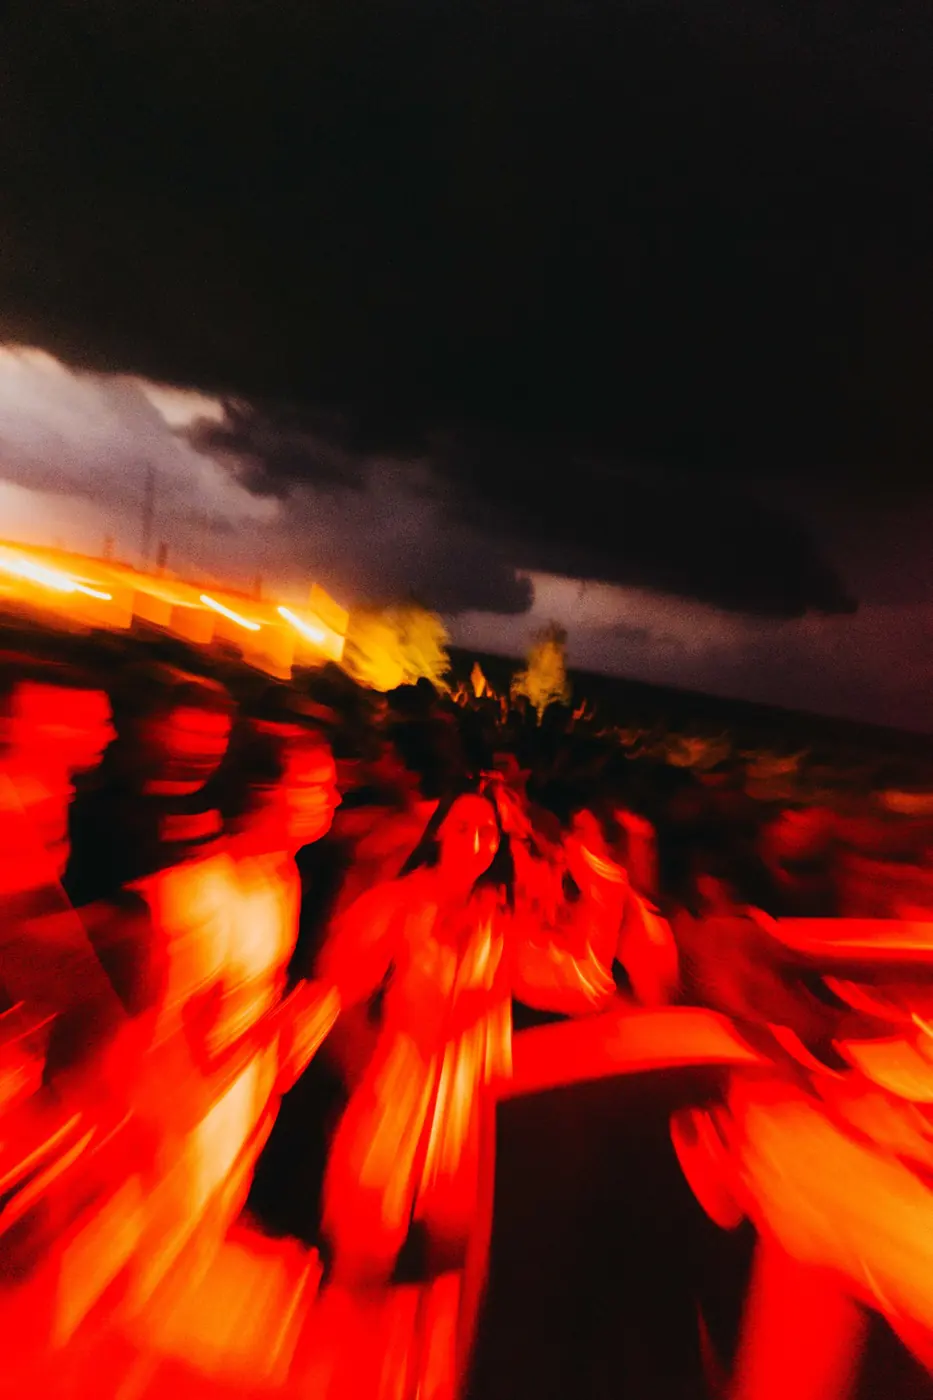
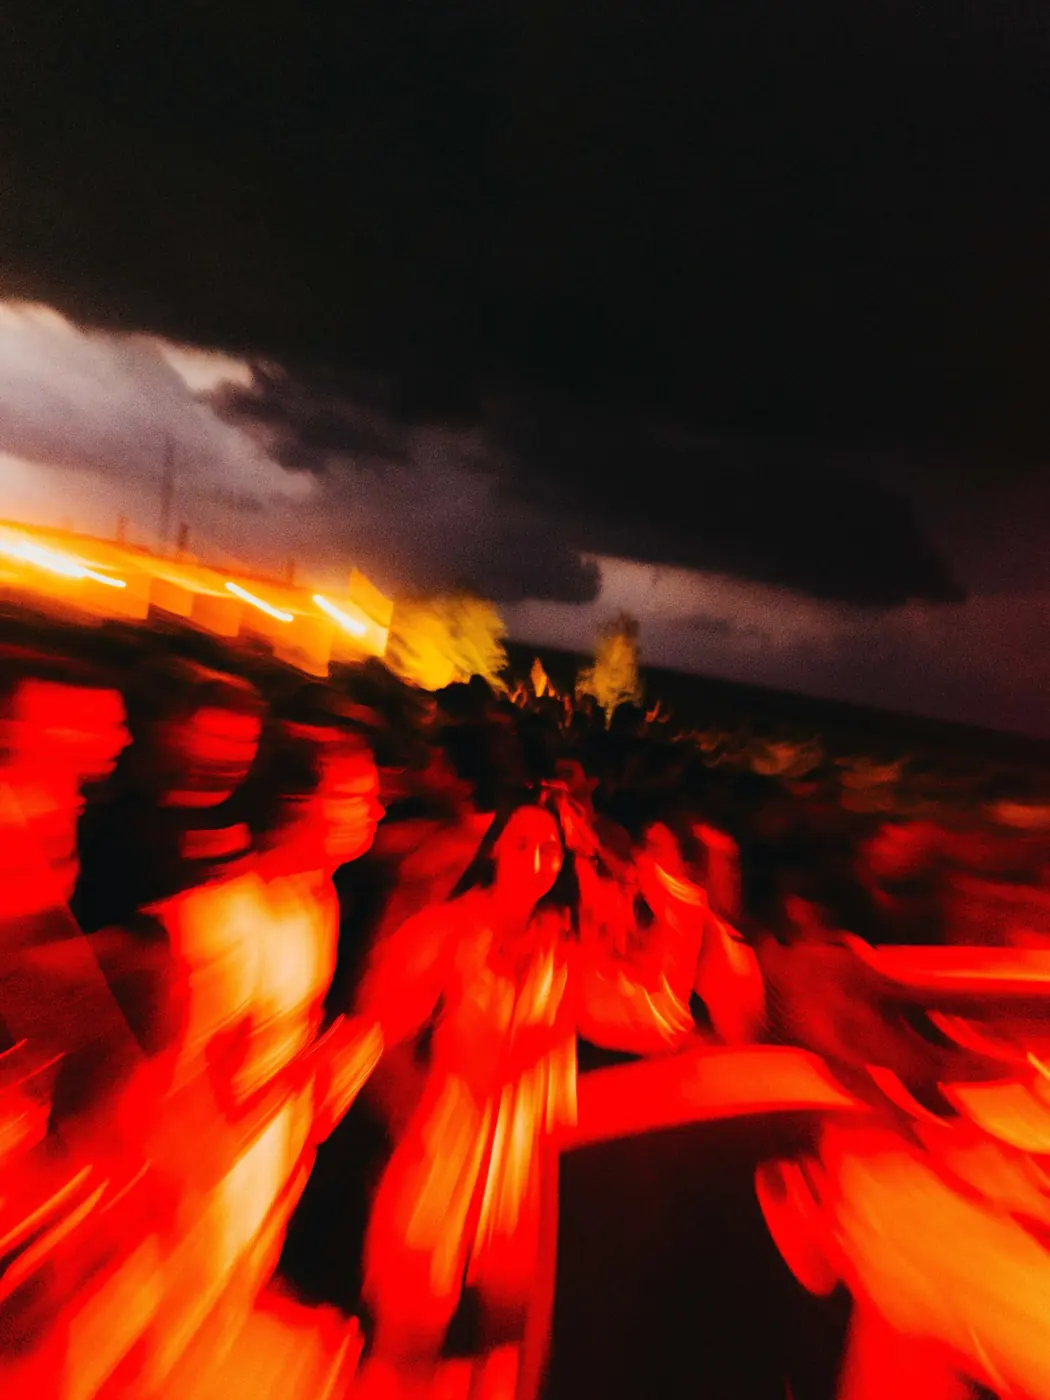
Sito 2027: nuovi sponsor, hero con beach volley, griglia aggiornata
- sponsor: Ghiaccino, Kronenbourg 1664, Cantina Crespaia; Lonely Tabi tra gli artisti
- hero: foto beach volley al posto del drone, slideshow attivo anche su mobile
- griglia: 25 foto, bagnanti in alto, yoga AI, kite in salto; su mobile 8 caselle
- sfondo sezione testo #EE8C53, footer con JIM Factory

Claude-Session: https://claude.ai/code/session_014ExUtK4sMAUc86pv9befrM

diff --git a/surfin-jim-final/index.html b/surfin-jim-final/index.html
@@ -47,10 +47,10 @@ a{color:inherit;text-decoration:none}ul{list-style:none}img{display:block;max-wi
 .js .cell.sw img{visibility:hidden}.js .cell.sw img.on{visibility:visible}
 @media(max-width:700px){.grid{grid-template-columns:repeat(2,1fr)}.cell.x{display:none}}
 /* testo */
-.wrap{background:#F5A500;position:relative;overflow:hidden}
+.wrap{background:#EE8C53;position:relative;overflow:hidden}
 .sec{max-width:1000px;margin:0 auto;padding:64px 32px 40px;position:relative;z-index:2}
 h2.big{text-wrap:balance;font-size:clamp(30px,5.4vw,70px);line-height:.98;letter-spacing:-.02em;text-transform:uppercase;text-align:center;margin-bottom:22px}
-h2.big em{font-style:normal;color:var(--red);display:inline-block}
+h2.big em{font-style:normal;color:var(--sand);display:inline-block}
 .lead{text-wrap:pretty;max-width:860px;margin:0 auto;text-align:center;font-size:clamp(19px,2.3vw,29px);line-height:1.38}
 .cta{max-width:1000px;margin:32px auto 0;background:var(--night);color:var(--sand);padding:22px 28px;display:flex;align-items:center;justify-content:space-between;gap:24px}
 .cta h3{font-size:clamp(22px,3vw,34px);line-height:1;text-transform:uppercase}.cta h3 em{font-style:normal;color:var(--yellow)}
@@ -75,16 +75,16 @@ footer{background:var(--night);padding:44px 32px 28px;border-top:1px solid rgba(
 <img class="slide on" src="images/hero-dj.webp" alt="Due dj di notte sotto l'insegna Surfin' Jim, con il pubblico davanti" style="--dp:50% 35%;--mp:48% 55%" fetchpriority="high">
 <img class="slide" src="images/hero-2-kite.webp" alt="Kitesurf davanti alla costa di Pesaro" style="--dp:50% 78%;--mp:60% 50%">
 <img class="slide" src="images/hero-3-mare.webp" alt="Persone che corrono in mare" style="--dp:50% 55%;--mp:40% 50%">
-<img class="slide" src="images/hero-4-drone.webp" alt="Veduta dall'alto del festival sulla spiaggia di notte" style="--dp:50% 28%;--mp:50% 50%">
+<img class="slide" src="images/hero-4-volley.webp" alt="Partita a palla in spiaggia con i kite nel cielo" style="--dp:50% 50%;--mp:47% 50%">
 <h1 class="hero-title">surfin' jim</h1>
 <div class="dots" aria-hidden="true"><i class="on"></i><i></i><i></i><i></i></div>
 </header>
 
-<section class="mq" id="artisti" aria-label="Artisti 2026"><div class="mq-track"><ul><li class="lb">Artisti 2026</li><li>Eternal Love</li><li>James Falco</li><li>Jim Nights</li><li>Reptilia</li><li>MilleAlice</li><li>Mazzoli</li><li>Conservatorio Rossini Jazz Quartet</li><li>Danielle</li></ul></div></section>
+<section class="mq" id="artisti" aria-label="Artisti 2026"><div class="mq-track"><ul><li class="lb">Artisti 2026</li><li>Eternal Love</li><li>James Falco</li><li>Jim Nights</li><li>Reptilia</li><li>MilleAlice</li><li>Mazzoli</li><li>Conservatorio Rossini Jazz Quartet</li><li>Danielle</li><li>Lonely Tabi</li></ul></div></section>
 
-<section class="grid" id="foto" aria-label="Foto dell'edizione 2026"><div class="cell sw"><img class="on" src="images/edizione-2026/yoga.webp" width="933" height="1400" alt="Yoga in spiaggia" style="--p:50% 60%" loading="lazy"><img src="images/edizione-2026/vela-uomo.webp" width="933" height="1400" alt="Uomo in acqua accanto a una piccola barca a vela" style="--p:50% 55%" loading="lazy"></div><div class="cell sw"><img class="on" src="images/edizione-2026/pubblico-notte.webp" width="933" height="1400" alt="Pubblico sotto le luci di notte" style="--p:50% 65%" loading="lazy"><img src="images/edizione-2026/dj-mosso.webp" width="933" height="1400" alt="Dj al lavoro in luce rossa" style="--p:50% 50%" loading="lazy"></div><div class="cell sw"><img class="on" src="images/edizione-2026/kite-onda.webp" width="788" height="1400" alt="Kitesurf con gli aquiloni in cielo" style="--p:50% 55%" loading="lazy"><img src="images/edizione-2026/canoa.webp" width="933" height="1400" alt="Canoa" style="--p:50% 60%" loading="lazy"></div><div class="cell"><img class="on" src="images/edizione-2026/live-chitarra.webp" width="933" height="1400" alt="Live con chitarra" style="--p:50% 40%" loading="lazy"></div><div class="cell sw"><img class="on" src="images/edizione-2026/dj-luce-rossa.webp" width="1800" height="1199" alt="Dj set in luce rossa" style="--p:52% 55%" loading="lazy"><img src="images/edizione-2026/pubblico-mosso.webp" width="933" height="1400" alt="Pubblico che balla, foto in movimento" style="--p:50% 55%" loading="lazy"></div><div class="cell sw"><img class="on" src="images/edizione-2026/talk.webp" width="933" height="1400" alt="Talk in spiaggia sotto l'insegna Surfin' Jim" style="--p:50% 55%" loading="lazy"><img src="images/edizione-2026/tshirt.webp" width="933" height="1400" alt="T-shirt Surfin' Jim" style="--p:50% 40%" loading="lazy"></div><div class="cell"><img class="on" src="images/edizione-2026/extra-198.webp" width="1200" height="1800" alt="Live di notte sotto l'insegna Surfin' Jim" style="--p:50% 50%" loading="lazy"></div><div class="cell sw"><img class="on" src="images/edizione-2026/corsa-gruppo.webp" width="933" height="1400" alt="Corsa di gruppo" style="--p:50% 60%" loading="lazy"><img src="images/edizione-2026/sup.webp" width="934" height="1400" alt="SUP" style="--p:50% 60%" loading="lazy"></div><div class="cell sw"><img class="on" src="images/edizione-2026/extra-100.webp" width="1200" height="1800" alt="Insegna Surfin' Jim al tramonto" style="--p:50% 60%" loading="lazy"><img src="images/edizione-2026/talk-sundek.webp" width="1800" height="1200" alt="Talk in spiaggia con gli ospiti seduti sul palco" style="--p:45% 50%" loading="lazy"></div><div class="cell sw"><img class="on" src="images/edizione-2026/dj-banco.webp" width="933" height="1400" alt="Consolle e pubblico in movimento" style="--p:50% 60%" loading="lazy"><img src="images/edizione-2026/pubblico-telefono.webp" width="933" height="1400" alt="Ragazza che filma il concerto con il telefono" style="--p:50% 45%" loading="lazy"></div><div class="cell"><img class="on" src="images/edizione-2026/bagnanti.webp" width="933" height="1400" alt="Amiche in mare" style="--p:50% 55%" loading="lazy"></div><div class="cell"><img class="on" src="images/edizione-2026/dj-palco.webp" width="1800" height="1200" alt="I dj dal palco con il pubblico davanti" style="--p:50% 55%" loading="lazy"></div><div class="cell x"><img class="on" src="images/edizione-2026/dj-schiena.webp" width="933" height="1400" alt="Dj di spalle e pubblico di notte" style="--p:50% 60%" loading="lazy"></div><div class="cell x"><img class="on" src="images/edizione-2026/vela.webp" width="933" height="1400" alt="Preparazione della vela in spiaggia" style="--p:50% 50%" loading="lazy"></div><div class="cell x"><img class="on" src="images/edizione-2026/live-band.webp" width="933" height="1400" alt="Band sul palco in luce rossa" style="--p:50% 55%" loading="lazy"></div><div class="cell x"><img class="on" src="images/edizione-2026/talk-panel.webp" width="933" height="1400" alt="Talk in spiaggia sotto l'insegna Surfin' Jim" style="--p:50% 40%" loading="lazy"></div></section>
+<section class="grid" id="foto" aria-label="Foto dell'edizione 2026"><div class="cell"><img class="on" src="images/edizione-2026/bagnanti.webp" width="933" height="1400" alt="Amiche in mare" style="--p:50% 55%" loading="lazy"></div><div class="cell sw"><img class="on" src="images/edizione-2026/pubblico-notte.webp" width="933" height="1400" alt="Pubblico sotto le luci di notte" style="--p:50% 65%" loading="lazy"><img src="images/edizione-2026/dj-mosso.webp" width="933" height="1400" alt="Dj al lavoro in luce rossa" style="--p:50% 50%" loading="lazy"></div><div class="cell sw"><img class="on" src="images/edizione-2026/kite-onda.webp" width="788" height="1400" alt="Kitesurf con gli aquiloni in cielo" style="--p:50% 55%" loading="lazy"><img src="images/edizione-2026/kite-jump.webp" width="933" height="1400" alt="Kitesurf in salto sopra le onde" style="--p:50% 45%" loading="lazy"></div><div class="cell"><img class="on" src="images/edizione-2026/dj-palco.webp" width="1800" height="1200" alt="I dj dal palco con il pubblico davanti" style="--p:50% 55%" loading="lazy"></div><div class="cell sw"><img class="on" src="images/edizione-2026/live-chitarra.webp" width="933" height="1400" alt="Live con chitarra" style="--p:50% 40%" loading="lazy"><img src="images/edizione-2026/pubblico-mosso.webp" width="1050" height="1400" alt="Pubblico che balla, foto in movimento" style="--p:50% 55%" loading="lazy"></div><div class="cell sw"><img class="on" src="images/edizione-2026/yoga.webp" width="933" height="1400" alt="Yoga in spiaggia" style="--p:50% 55%" loading="lazy"><img src="images/edizione-2026/vela-uomo.webp" width="933" height="1400" alt="Uomo in acqua accanto a una piccola barca a vela" style="--p:50% 55%" loading="lazy"></div><div class="cell"><img class="on" src="images/edizione-2026/extra-198.webp" width="1200" height="1800" alt="Live di notte sotto l'insegna Surfin' Jim" style="--p:50% 50%" loading="lazy"></div><div class="cell sw"><img class="on" src="images/edizione-2026/talk.webp" width="933" height="1400" alt="Talk in spiaggia sotto l'insegna Surfin' Jim" style="--p:50% 55%" loading="lazy"><img src="images/edizione-2026/tshirt.webp" width="933" height="1400" alt="T-shirt Surfin' Jim" style="--p:50% 40%" loading="lazy"></div><div class="cell sw x"><img class="on" src="images/edizione-2026/corsa-gruppo.webp" width="933" height="1400" alt="Corsa di gruppo" style="--p:50% 60%" loading="lazy"><img src="images/edizione-2026/sup.webp" width="934" height="1400" alt="SUP" style="--p:50% 60%" loading="lazy"></div><div class="cell sw x"><img class="on" src="images/edizione-2026/dj-banco.webp" width="933" height="1400" alt="Consolle e pubblico in movimento" style="--p:50% 60%" loading="lazy"><img src="images/edizione-2026/pubblico-telefono.webp" width="933" height="1400" alt="Ragazza che filma il concerto con il telefono" style="--p:50% 45%" loading="lazy"></div><div class="cell sw x"><img class="on" src="images/edizione-2026/canoa.webp" width="933" height="1400" alt="Canoa" style="--p:50% 60%" loading="lazy"><img src="images/edizione-2026/extra-100.webp" width="1200" height="1800" alt="Insegna Surfin' Jim al tramonto" style="--p:50% 60%" loading="lazy"></div><div class="cell x"><img class="on" src="images/edizione-2026/dj-schiena.webp" width="933" height="1400" alt="Dj di spalle e pubblico di notte" style="--p:50% 60%" loading="lazy"></div><div class="cell x"><img class="on" src="images/edizione-2026/live-band.webp" width="933" height="1400" alt="Band sul palco in luce rossa" style="--p:50% 55%" loading="lazy"></div><div class="cell sw x"><img class="on" src="images/edizione-2026/talk-sundek.webp" width="1800" height="1200" alt="Talk in spiaggia con gli ospiti seduti sul palco" style="--p:45% 50%" loading="lazy"><img src="images/edizione-2026/vela.webp" width="933" height="1400" alt="Preparazione della vela in spiaggia" style="--p:50% 50%" loading="lazy"></div><div class="cell x"><img class="on" src="images/edizione-2026/dj-luce-rossa.webp" width="1800" height="1199" alt="Dj set in luce rossa" style="--p:52% 55%" loading="lazy"></div><div class="cell x"><img class="on" src="images/edizione-2026/talk-panel.webp" width="933" height="1400" alt="Talk in spiaggia sotto l'insegna Surfin' Jim" style="--p:50% 40%" loading="lazy"></div></section>
 
-<section class="mq" id="partner" aria-label="Partner 2026"><div class="mq-track"><ul><li class="lb">Partner 2026</li><li>Sundek</li><li>Aperol</li><li>Mixum</li><li>Gabellini Changan</li><li>Cinquantotto Pesaro</li><li>Casa Fazi Pokè</li><li>Pepitos</li><li>Sprout</li><li>Ri.Cami</li></ul></div></section>
+<section class="mq" id="partner" aria-label="Partner 2026"><div class="mq-track"><ul><li class="lb">Partner 2026</li><li>Sundek</li><li>Aperol</li><li>Mixum</li><li>Gabellini Changan</li><li>Cinquantotto Pesaro</li><li>Ghiaccino</li><li>Kronenbourg 1664</li><li>Cantina Crespaia</li><li>Casa Fazi Pokè</li><li>Pepitos</li><li>Sprout</li><li>Ri.Cami</li></ul></div></section>
 
 <div class="wrap"><div class="grain"></div>
 <section class="sec" id="sponsor">
@@ -96,19 +96,19 @@ footer{background:var(--night);padding:44px 32px 28px;border-top:1px solid rgba(
 
 <section class="mq" id="sostegno" aria-label="Con il sostegno di"><div class="mq-track"><ul><li class="lb">Con il sostegno di</li><li>Comune di Pesaro</li><li>Pesaro Kite Surf Association</li><li>Sport Village Pesaro</li><li>Caffè Centrale Agency</li><li>Luula</li><li>Be Kind TO APS</li></ul></div></section>
 
-<footer><div class="fg"><div><img src="images/logo-sole.png" alt="Surfin' Jim, logo sole"><p>Festival di sport, musica e cultura sulla spiaggia di Pesaro.</p></div>
+<footer><div class="fg"><div><img src="images/logo-sole.png" alt="Surfin' Jim, logo sole"><p>Festival di sport, musica e cultura<br>sulla spiaggia di Pesaro.</p></div>
 <div><h5>Vai a</h5><ul><li><a href="#foto">Edizione 2026</a></li><li><a href="#sponsor">Sponsor</a></li><li><a href="#partner">Partner</a></li></ul></div>
 <div><h5>Contatti</h5><ul><li><a href="https://instagram.com/surfinjim" target="_blank" rel="noopener">@surfinjim</a></li><li><a href="mailto:jimnights.mail@gmail.com">jimnights.mail@gmail.com</a></li><li><a href="tel:+393662928747">+39 366 2928747</a></li></ul></div></div>
-<div class="fb"><span>© 2026 JIM Nights · Surfin' Jim Festival</span><span>Patrocinato dal Comune di Pesaro</span></div></footer>
+<div class="fb"><span>© 2026 JIM Factory · Surfin' Jim Festival</span><span>Patrocinato dal Comune di Pesaro</span></div></footer>
 <script>
 document.documentElement.classList.add('js');
 const hero=document.getElementById('top'),slides=[...hero.querySelectorAll('.slide')],dots=[...hero.querySelectorAll('.dots i')],calm=matchMedia('(prefers-reduced-motion:reduce)').matches;
 let cur=0;
 function show(i){const o=slides[cur];if(i!==cur){slides.forEach(s=>s.classList.remove('prev'));o.classList.add('prev')}cur=i;slides.forEach((s,k)=>s.classList.toggle('on',k===i));dots.forEach((e,k)=>e.classList.toggle('on',k===i))}
-if(!calm)setInterval(()=>{if(scrollY<hero.offsetHeight&&!document.hidden)show((cur+1)%slides.length)},2500);
+setInterval(()=>{if(scrollY<hero.offsetHeight&&!document.hidden)show((cur+1)%slides.length)},2500);
 
 const cells=[...document.querySelectorAll('.cell.sw')];
-if(!calm&&cells.length){cells.forEach((c,i)=>{const im=[...c.children];let k=0,vis=false;
+if(cells.length){cells.forEach((c,i)=>{const im=[...c.children];let k=0,vis=false;
   new IntersectionObserver(e=>vis=e[0].isIntersecting,{threshold:.2}).observe(c);
   setTimeout(()=>setInterval(()=>{if(!vis||document.hidden)return;im[k].classList.remove('on');k=(k+1)%im.length;im[k].classList.add('on')},3000),i*450)})}
 const n=document.getElementById('nav');
